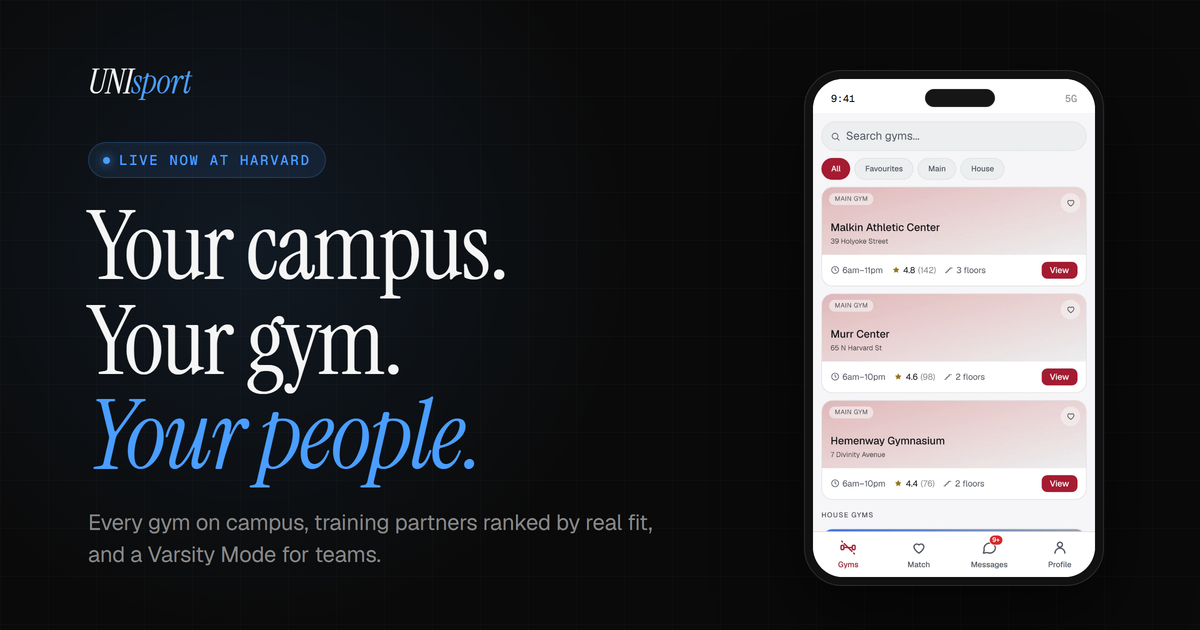
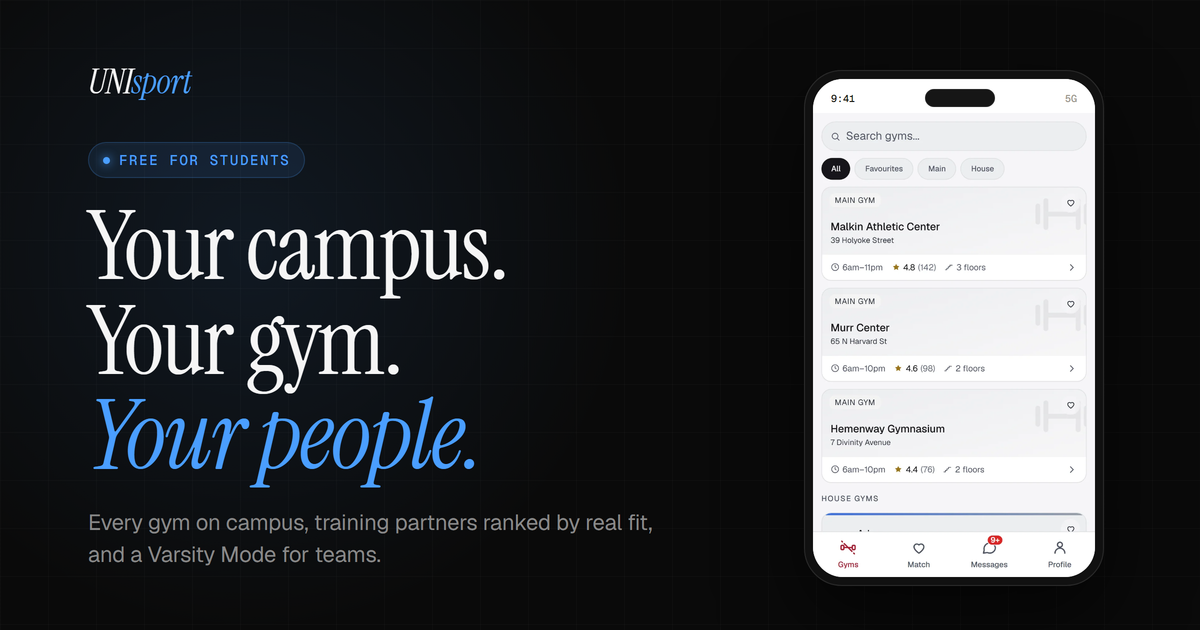
fix(landing): "live now at Harvard" comes out until it is true
"Live at X" is an advertising claim, not a mood, and right now the only
people inside are testers. It goes back the day real Harvard students are
using it — the comment in landingCopy says so, and names all four places
it lived so putting it back is one job:

  • the hero pill                → now "Free for students"
  • the link card's description  → last clause dropped
  • the FAQ "which universities" → "Harvard first", second sentence intact
  • public/og.png                → the pill is baked in, so it was redrawn

diff --git a/lib/landingCopy.ts b/lib/landingCopy.ts
@@ -53,8 +53,17 @@ export const hero = {
      became "Live now at Harvard", and on 2026-09-01 it took the second fact
      with it: the app is FREE for students, and the page had never once said
      so. Free is the reader's first objection, answered in the first line they
-     read. */
-  badge: "Free for students · live now at Harvard",
+     read.
+
+     2026-09-06 — "live now at Harvard" TAKEN OUT, and it comes back. Nothing
+     changed about the plan; the claim simply runs ahead of the facts while the
+     only people inside are testers, and "live at X" is an advertising claim,
+     not a mood. It goes back the day real Harvard students are using it
+     (owner: "zatim smaz to live at harvard pak vratime"). The same sentence
+     also lived in `social.description` and in the FAQ below, and in the pill
+     baked into public/og.png by scripts/landing/make-og.mjs — all four moved
+     together, so putting it back means putting it back in all four. */
+  badge: "Free for students",
   /* The page headline. Describes the product, and lives only here. */
   headline: ["Your campus.", "Your gym.", "Your people."],
   /* FOUR ACTIONS, in the order the app is actually used: find a gym, match
@@ -88,7 +97,7 @@ export const hero = {
    scripts/landing/make-og.mjs from the same headline and pill. */
 export const social = {
   title: `UNIsport — ${hero.headline.join(" ")}`,
-  description: "Find the gym. Find someone to go with. Free for students, live at Harvard.",
+  description: "Find the gym. Find someone to go with. Free for students.",
   imageAlt: "UNIsport — Your campus. Your gym. Your people. The Gyms screen in a phone beside the headline.",
 };
 
@@ -831,8 +840,11 @@ type FaqAudience = "students" | "varsity" | "coaches";
 export const faq: { q: string; a: string; on: FaqAudience[] }[] = [
   {
     on: ["students", "varsity", "coaches"],
-    q: "Which universities is it live at?",
-    a: "Harvard, today. New campuses come on one at a time, each with its own colours, gyms and houses, so the app you sign up to is already yours.",
+    /* Was "Which universities is it live at?" / "Harvard, today." — the same
+       live-at-Harvard claim as the pill, so it came out with it (2026-09-06)
+       and goes back with it. The second sentence is untouched. */
+    q: "Which universities is it for?",
+    a: "Harvard first. New campuses come on one at a time, each with its own colours, gyms and houses, so the app you sign up to is already yours.",
   },
   {
     on: ["students", "varsity", "coaches"],
